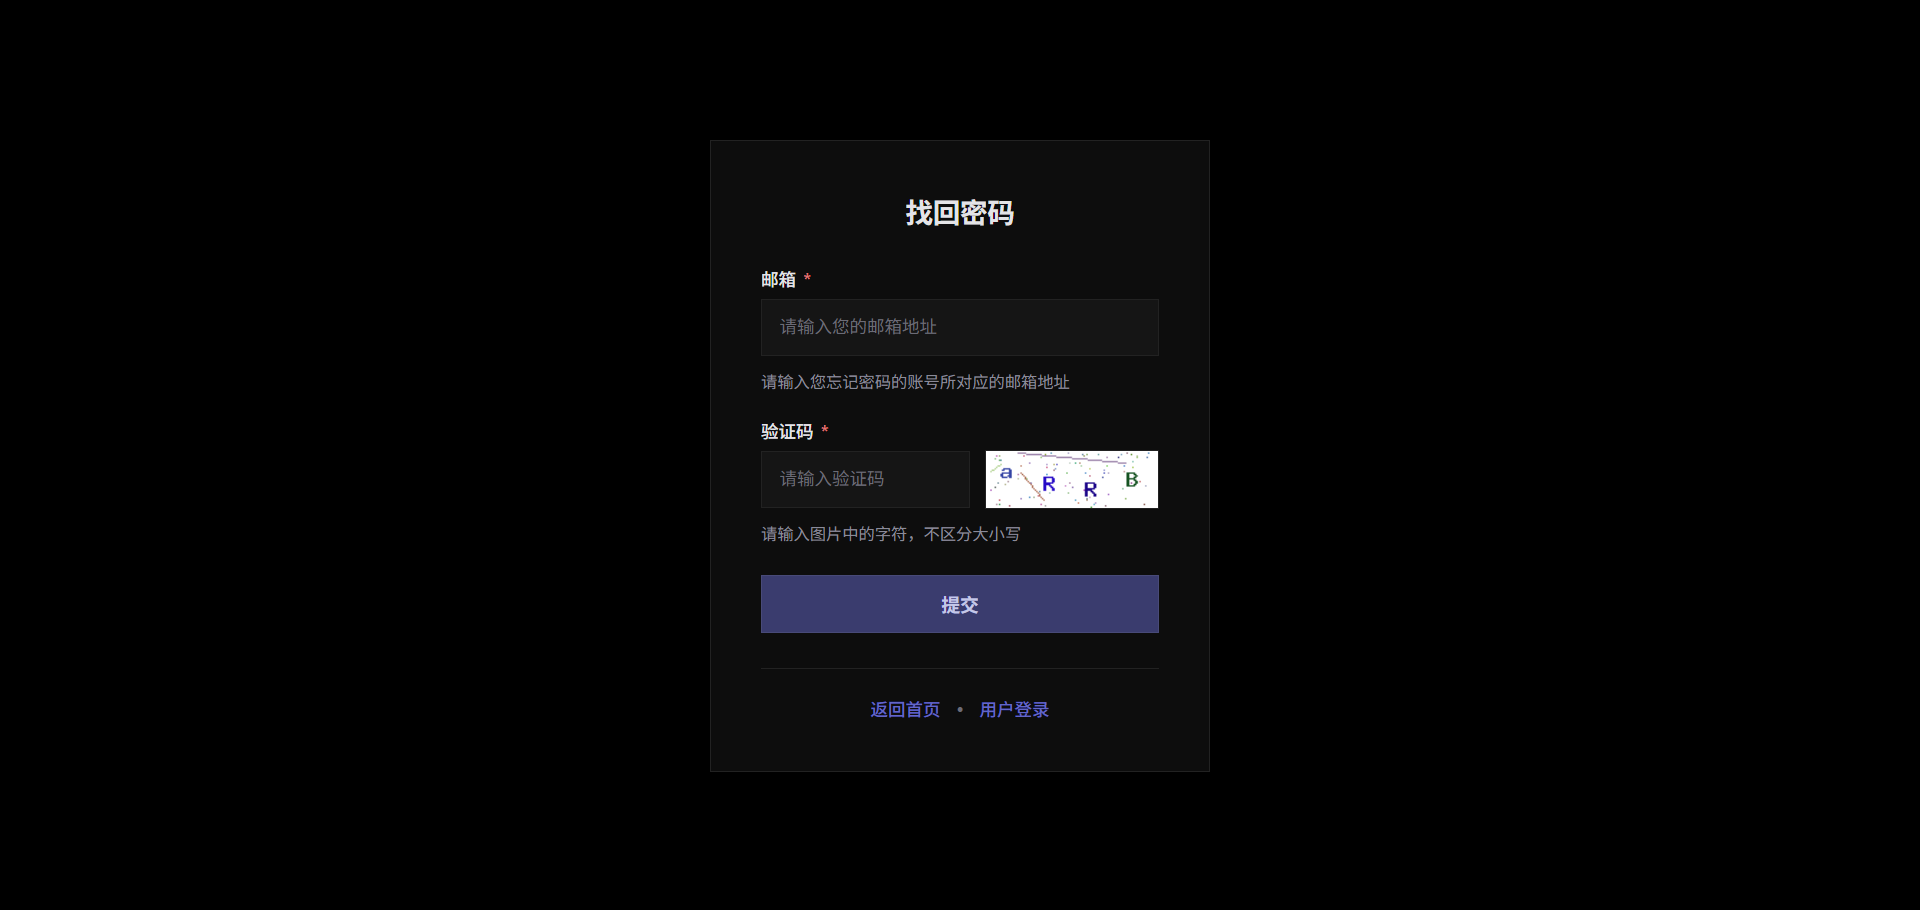
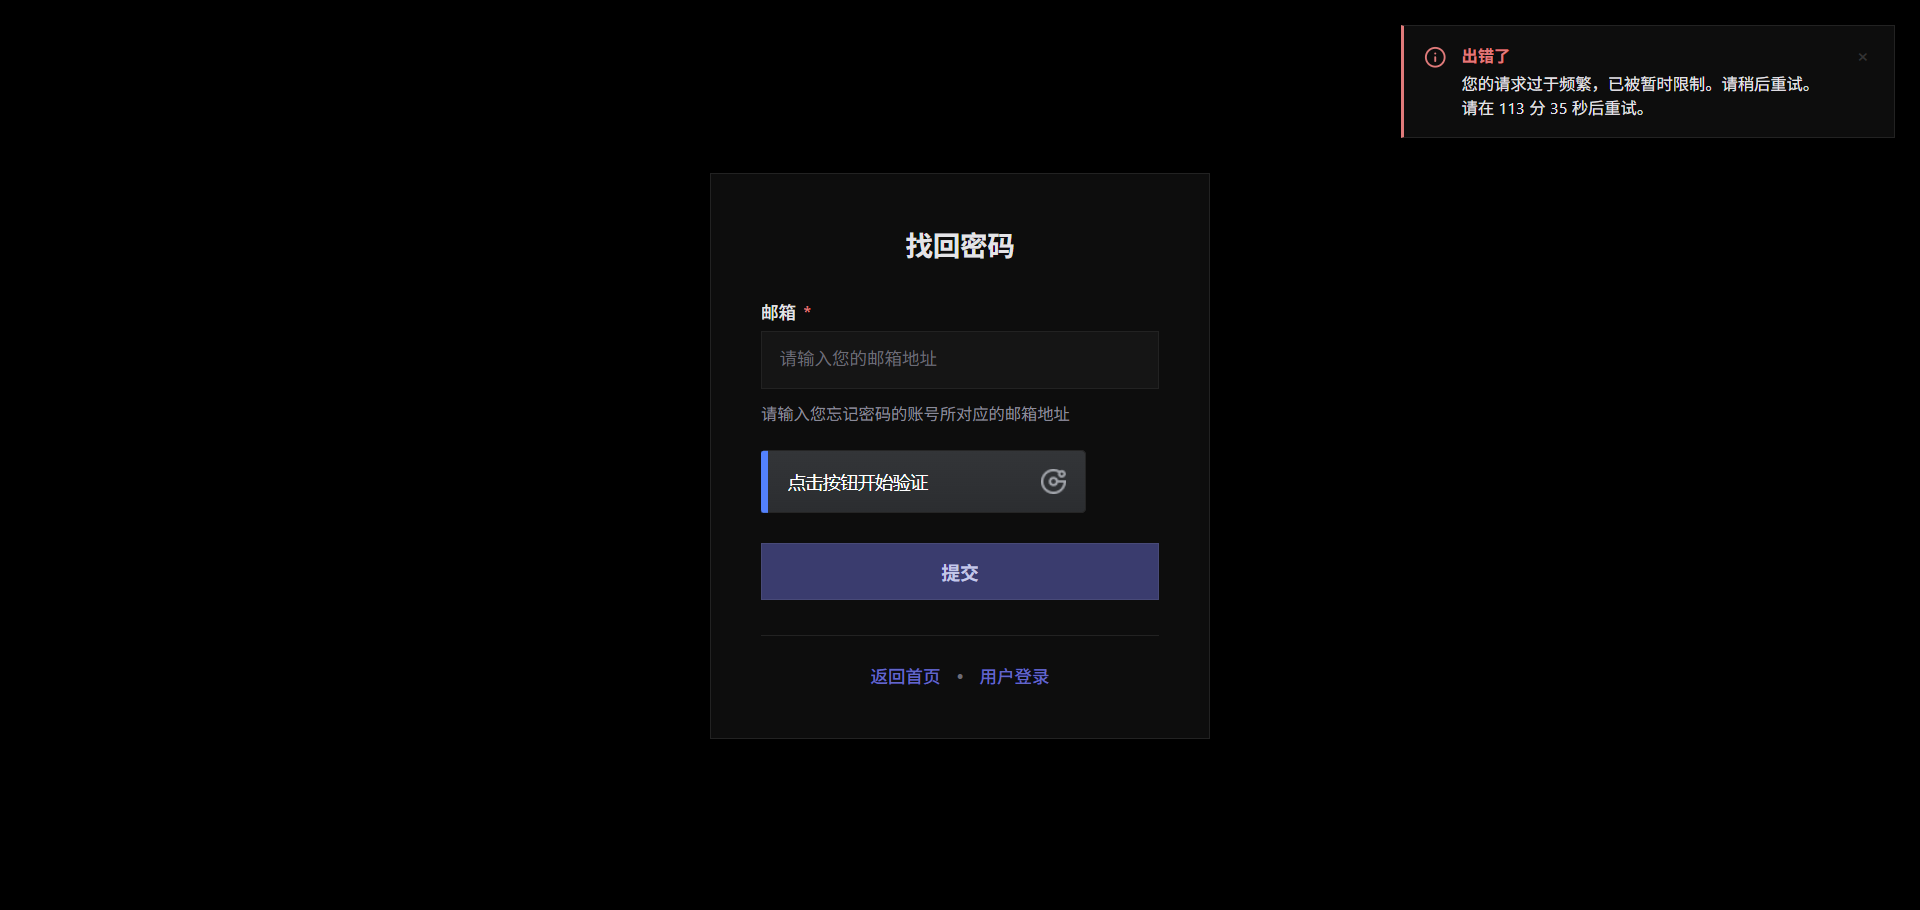
预览图更新

diff --git a/Passport/Plugin.php b/Passport/Plugin.php
@@ -11,7 +11,7 @@ if (!defined('__TYPECHO_ROOT_DIR__')) exit;
  * @author GARFIELDTOM
  * @copyright Copyright (c) 2026 GARFIELDTOM
  * @version 1.1.3
- * @link https://garfieldtom.cool/
+ * @link https://www.garfieldtom.cool/
  * @license GNU General Public License 2.0
  */
 